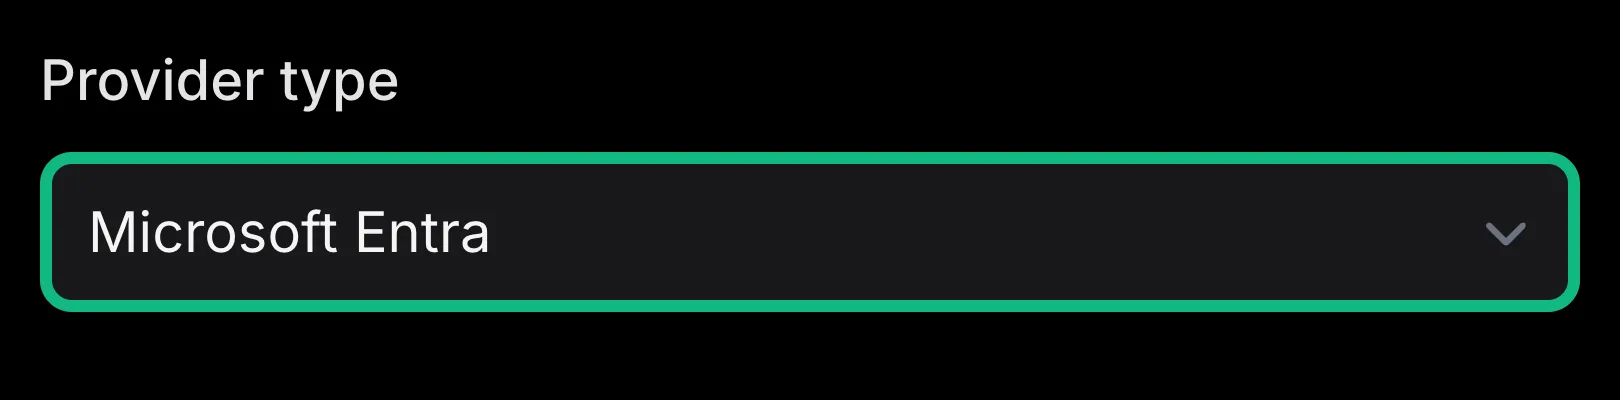
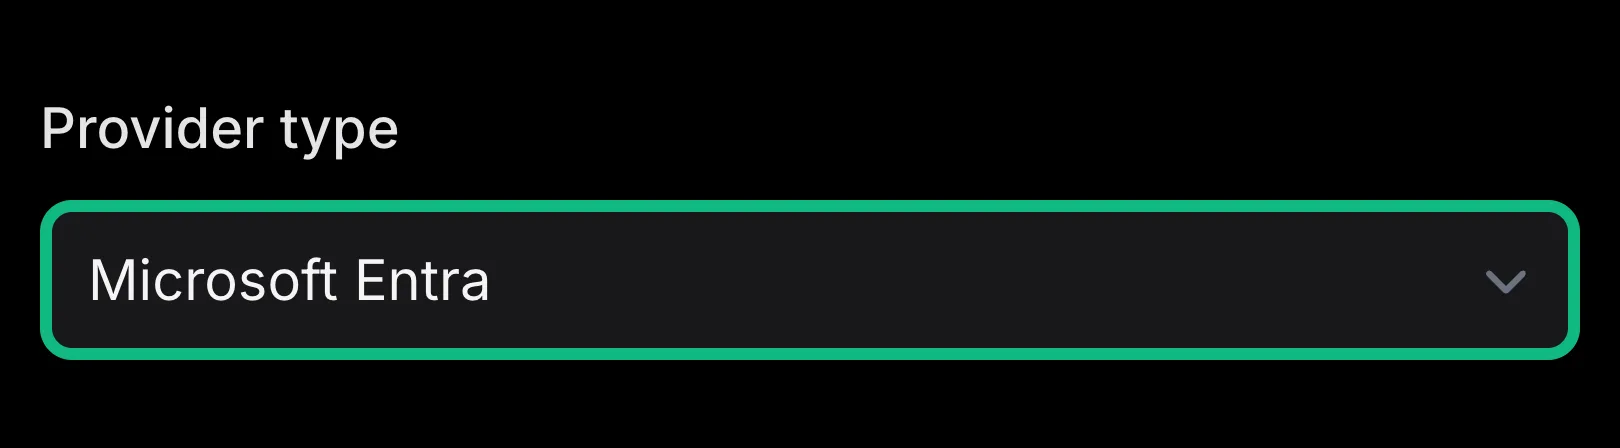
Show the reader where to look on Keycloak's five screens
The Keycloak guide's screenshots had no highlights at all — a form of a
dozen fields and a table of eleven scopes, with nothing saying which two
the step is about.

Adding them turned up three faults in the highlighter that the earlier
shots had not exposed. A form group's "?" help popover is a button, and
searching buttons alongside inputs meant the icon nearest the label won:
"Require PKCE" ringed the help icon and reported a hit. Inset outlines
cut through the text of the control they ring, so "On" came out as "Or" —
they now draw outward, and only a control reaching the crop's left or
right edge insets. A control on the crop's TOP edge clipped the same way
the bottom one used to, so the spacer now pads both ends.

Keycloak's redirect URIs is a repeating multi-value widget whose label
names no single input, which left the outline on a group wider than the
crop. Highlights take a `css:` prefix for a control that must be named
outright, and a `row:` prefix for pointing at rows in a list — the email
and profile scopes among nine others.

Every image was looked at, since the miss that mattered was a green box
in the wrong place that the tool itself called a success.

Coop-Task: 2026-07-29-2026-07-29-docs-feedback-batch-emisar-step-shots

diff --git a/tools/internal/browser/docs.go b/tools/internal/browser/docs.go
@@ -182,11 +182,11 @@ var docsShots = []shot{
 // unsaved create-client form never leaves an extra client behind, while the
 // seeded emisar-portal client supplies the masked secret and assigned scopes.
 var keycloakShots = []shot{
-	{Name: "keycloak-client-general", Keycloak: true, Anchor: Anchor{Selector: "#kc-main-content-page-container form"}, Width: docsWidth, Output: "docs/sso/keycloak-client-general.webp"},
-	{Name: "keycloak-client-capabilities", Keycloak: true, Anchor: Anchor{Selector: `[data-testid="capability-config-form"]`}, Width: docsWidth, Output: "docs/sso/keycloak-client-capabilities.webp"},
-	{Name: "keycloak-client-redirect", Keycloak: true, Anchor: Anchor{Selector: "#kc-main-content-page-container form"}, Width: docsWidth, Output: "docs/sso/keycloak-client-redirect.webp"},
-	{Name: "keycloak-client-secret", Keycloak: true, Anchor: Anchor{Selector: `#kc-main-content-page-container section[role="tabpanel"]`}, Width: docsWidth, TopCSS: 355, Output: "docs/sso/keycloak-client-secret.webp"},
-	{Name: "keycloak-client-scopes", Keycloak: true, Anchor: Anchor{Selector: `table[aria-label="Client scopes"]`}, Width: docsWidth, Output: "docs/sso/keycloak-client-scopes.webp"},
+	{Name: "keycloak-client-general", Keycloak: true, Anchor: Anchor{Selector: "#kc-main-content-page-container form"}, Highlight: []string{"Client type", "Client ID"}, Width: docsWidth, Output: "docs/sso/keycloak-client-general.webp"},
+	{Name: "keycloak-client-capabilities", Keycloak: true, Anchor: Anchor{Selector: `[data-testid="capability-config-form"]`}, Highlight: []string{"Client authentication", "Standard flow", "Require PKCE", "PKCE Method"}, Width: docsWidth, Output: "docs/sso/keycloak-client-capabilities.webp"},
+	{Name: "keycloak-client-redirect", Keycloak: true, Anchor: Anchor{Selector: "#kc-main-content-page-container form"}, Highlight: []string{`css:[data-testid="redirectUris0"]`}, Width: docsWidth, Output: "docs/sso/keycloak-client-redirect.webp"},
+	{Name: "keycloak-client-secret", Keycloak: true, Anchor: Anchor{Selector: `#kc-main-content-page-container section[role="tabpanel"]`}, Highlight: []string{"Client Secret"}, Width: docsWidth, TopCSS: 355, Output: "docs/sso/keycloak-client-secret.webp"},
+	{Name: "keycloak-client-scopes", Keycloak: true, Anchor: Anchor{Selector: `table[aria-label="Client scopes"]`}, Highlight: []string{"row:email", "row:profile"}, Width: docsWidth, Output: "docs/sso/keycloak-client-scopes.webp"},
 }
 
 // loopFrames are the /security approval-loop cast frames. They are NOT
@@ -509,44 +509,88 @@ func rgbHex(value string) string {
 // console a step is in. A label that matches nothing FAILS the capture — a shot
 // that silently loses its outline is a broken instruction, which is exactly how
 // the Okta lifecycle screenshot shipped bare.
+// highlightControls outlines the control each label names. Two prefixes change
+// what gets outlined: "row:" takes the whole table row the text sits in — a list
+// where the reader is being pointed at two entries among a dozen, not at a field
+// — and "css:" names the control outright, for a widget whose label belongs to
+// no single input (a repeating multi-value field).
 func highlightControls(session *Session, labels []string) error {
 	for _, label := range labels {
+		wanted, row := strings.CutPrefix(label, "row:")
+		wanted, direct := strings.CutPrefix(wanted, "css:")
 		script := fmt.Sprintf(`(function(){
   const visible = el => el.offsetWidth > 0 || el.offsetHeight > 0;
-  const hits = [...document.querySelectorAll('label,legend,h2,h3,p,span,div')]
+  const crop = document.querySelector('[data-shot="1"]');
+  const edge = crop ? crop.getBoundingClientRect() : null;
+  const inside = el => {
+    if (!edge) return true;
+    const box = el.getBoundingClientRect();
+    return box.left >= edge.left - 1 && box.right <= edge.right + 1;
+  };
+  const paint = el => {
+    // Outward by default, so the outline rings the control instead of cropping
+    // its own last letter — a box drawn 3px inside a label sized to its text cuts
+    // through the text. A full-width control has no room to either side, so that
+    // one insets; the top and bottom are handled by the crop's spacers instead.
+    const box = el.getBoundingClientRect();
+    const tight = !edge || box.left - edge.left < 6 || edge.right - box.right < 6;
+    el.style.outline = '3px solid #10b981';
+    el.style.outlineOffset = tight ? '-3px' : '3px';
+    el.style.borderRadius = '8px';
+    return true;
+  };
+  if (%t) {
+    const direct = document.querySelector(%q);
+    return direct && visible(direct) ? paint(direct) : false;
+  }
+  const hits = [...document.querySelectorAll('label,legend,h2,h3,p,span,div,td,th,a')]
     .filter(el => visible(el) && (el.textContent || '').trim() === %q)
     .sort((a, b) => a.getElementsByTagName('*').length - b.getElementsByTagName('*').length);
   let node = hits[0];
   if (!node) return false;
+  if (%t) {
+    const tr = node.closest('tr');
+    return tr ? paint(tr) : false;
+  }
   // A <label for=...> names its control outright; take that rather than guessing
   // by climbing. The climb below can drift onto a NEIGHBOUR's input and outline
-  // the wrong thing while still reporting success — which it did once.
-  const named = node.getAttribute && node.getAttribute('for')
-    ? document.getElementById(node.getAttribute('for'))
-    : null;
-  if (named && visible(named)) {
-    named.style.outline = '3px solid #10b981';
-    named.style.outlineOffset = '-3px';
-    named.style.borderRadius = '8px';
-    return true;
+  // the wrong thing while still reporting success — which it did once. The text
+  // is often a span INSIDE that label, so look up as well as at the node itself.
+  const field = 'input,select,textarea,[role=radio],[role=checkbox]';
+  const labelled = node.closest('label[for]') || (node.getAttribute('for') ? node : null);
+  let control = labelled ? document.getElementById(labelled.getAttribute('for')) : null;
+  if (!control) {
+    // Climb to the field group, then outline the CONTROL inside it. Outlining the
+    // group itself puts the line on the crop boundary, where the element
+    // screenshot clips it away — which is how a "highlighted" shot came back with
+    // one green edge showing.
+    // Inputs before buttons, in two passes. A form group's help popover is a
+    // <button> that usually sits closer to the label than the control does, so
+    // one combined search outlined the "?" icon and called it a hit.
+    for (let up = 0; up < 4 && node.parentElement; up++) {
+      if (node.querySelector(field)) break;
+      node = node.parentElement;
+    }
+    control = node.querySelector(field) || node.querySelector('button') || node;
   }
-  // Climb to the field group, then outline the CONTROL inside it. Outlining the
-  // group itself puts the line on the crop boundary, where the element
-  // screenshot clips it away — which is how a "highlighted" shot came back with
-  // one green edge showing.
-  for (let up = 0; up < 4 && node.parentElement; up++) {
-    if (node.querySelector('input,select,textarea,button,[role=radio],[role=checkbox]')) break;
-    node = node.parentElement;
+  // A tick box on its own reads as a stray green square; the reader is being
+  // pointed at the option, which is the box together with its wording.
+  if (control.matches && control.matches('input[type=checkbox],input[type=radio]') && control.parentElement) {
+    control = control.parentElement;
   }
-  node = node.querySelector('input,select,textarea,button,[role=radio],[role=checkbox]') || node;
-  // INSET. A control that fills its group's width has no room outside it, so an
-  // outward outline is clipped at the crop boundary and only the top and bottom
-  // survive. Drawn inside, all four edges are in the picture.
-  node.style.outline = '3px solid #10b981';
-  node.style.outlineOffset = '-3px';
-  node.style.borderRadius = '8px';
-  return true;
-})()`, label)
+  // A switch paints a sibling and hides its real input, so an outline on the
+  // input draws nothing at all. Walk out to the first ancestor with a box.
+  while (control && !visible(control) && control.parentElement) control = control.parentElement;
+  if (!control) return false;
+  // A multi-value field (Keycloak's redirect URIs) has no label/for and its
+  // group runs wider than the crop, so the outline's right edge fell outside the
+  // picture. Narrow to the control inside it that the reader can actually see.
+  if (!inside(control)) {
+    const inner = [...control.querySelectorAll(field)].find(el => visible(el) && inside(el));
+    if (inner) control = inner;
+  }
+  return paint(control);
+})()`, direct, wanted, wanted, row)
 		var marked bool
 		if err := chromedp.Run(session.Context, chromedp.Evaluate(script, &marked)); err != nil {
 			return err
@@ -591,10 +635,18 @@ func captureDocElement(session *Session, config DocsConfig, s shot) (string, err
   const el = document.querySelector('[data-shot="1"]');
   if (!el) return false;
   if (el.querySelector('[data-shot-spacer]')) return true;
-  const pad = document.createElement('div');
-  pad.setAttribute('data-shot-spacer', '1');
-  pad.style.height = '12px';
-  el.appendChild(pad);
+  const pad = () => {
+    const el = document.createElement('div');
+    el.setAttribute('data-shot-spacer', '1');
+    el.style.height = '12px';
+    return el;
+  };
+  // Both ends. A control on the crop's TOP edge has the same problem as one on
+  // its bottom, and there is no offset that rings a control on one edge without
+  // cutting through its label on the other — outline-offset is one value for all
+  // four sides.
+  el.insertBefore(pad(), el.firstChild);
+  el.appendChild(pad());
   return true;
 })()`
 			if err := chromedp.Run(session.Context, chromedp.Evaluate(spacer, nil)); err != nil {
